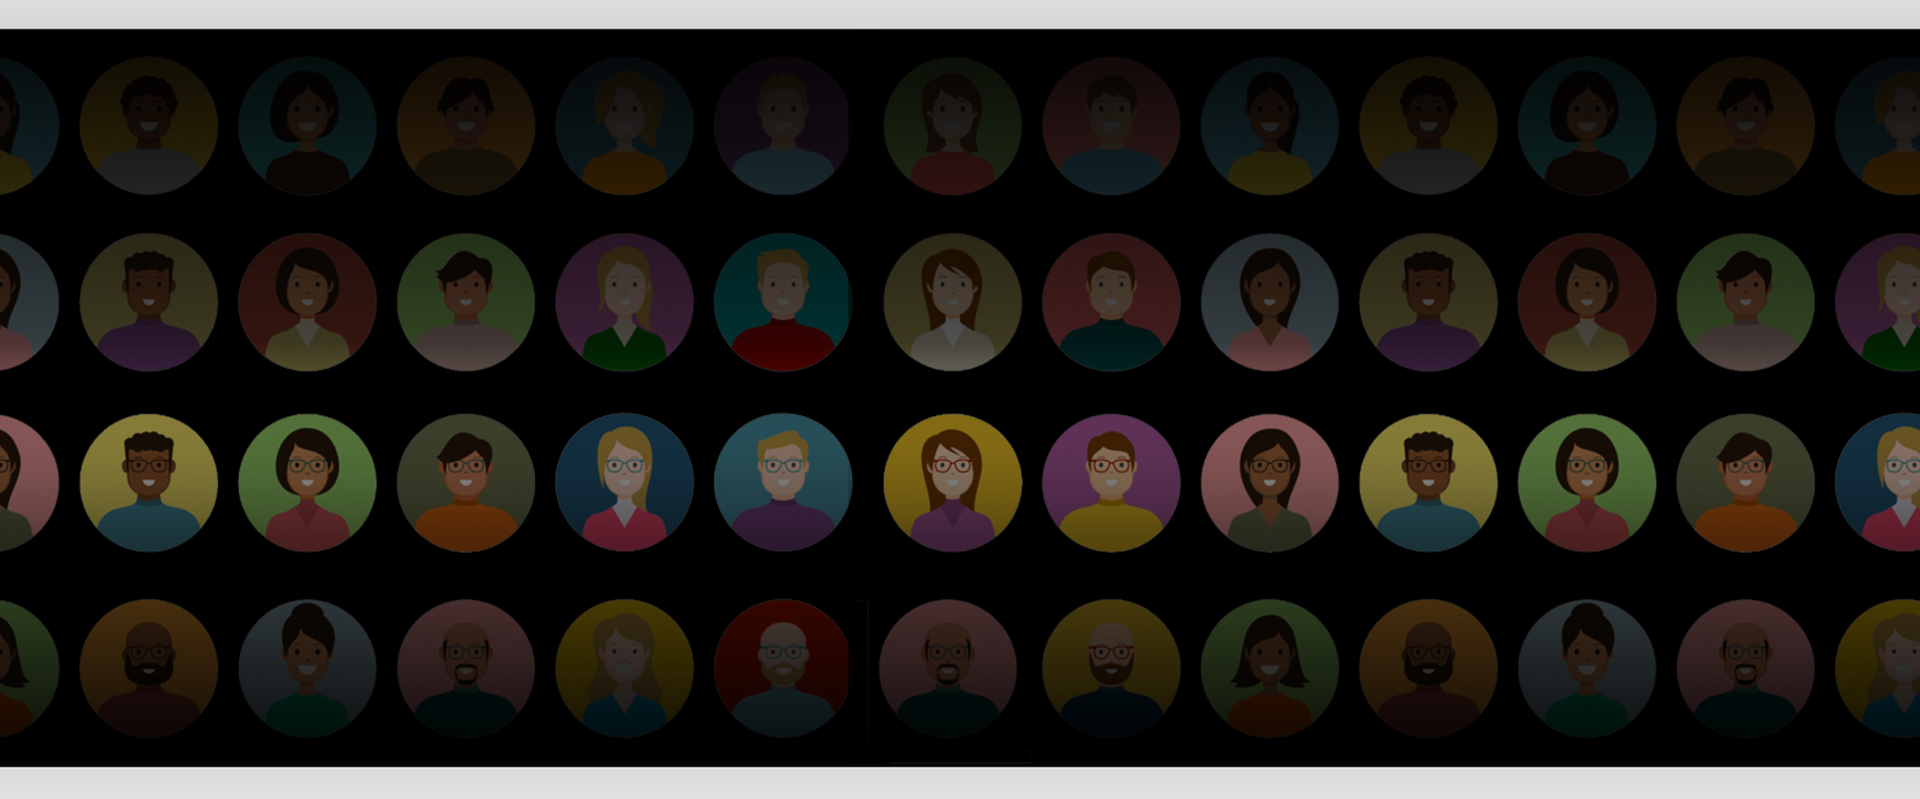
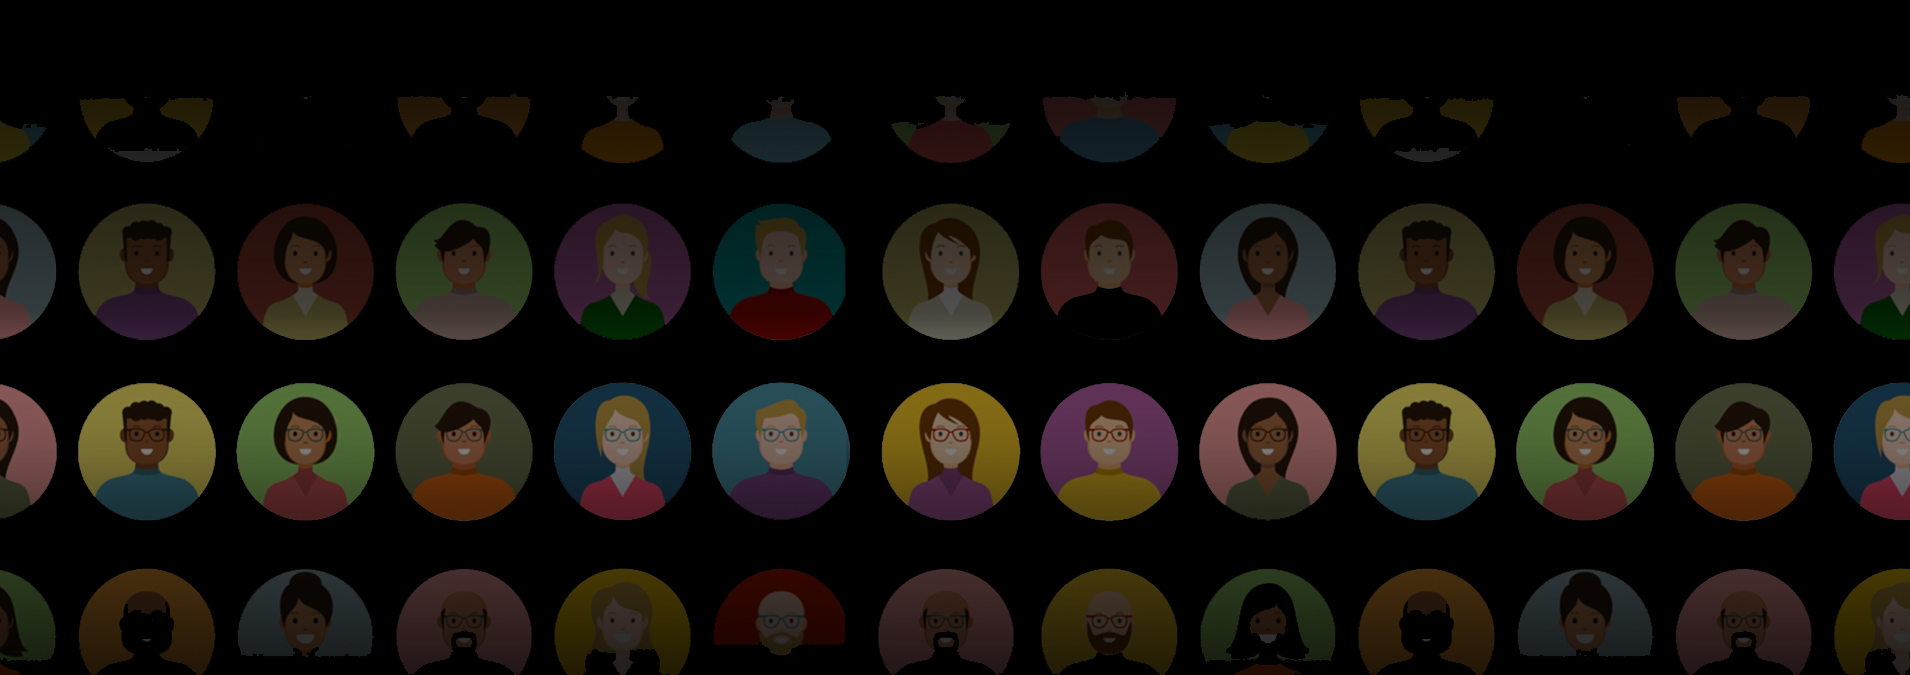
feat(Home): made Home page

diff --git a/src/pages/index.html b/src/pages/index.html
@@ -44,9 +44,9 @@
 					<button class="hero__button button_active">Get Started Now</button>
 					<button class="hero__button button_inactive">View A Demo</button>
 				</div>
-				<p class="hero__supbutton_text">
+				<p class="common__supbutton_text">
 					<span class="green-circle_wrap">
-						<span class="green-circle"></span></span><span class="hero__supbutton_bold">1000+</span>
+						<span class="green-circle"></span></span><span class="common__supbutton_bold">1000+</span>
 						creators have already started
 				</p>
 			</div>
@@ -139,7 +139,41 @@
 				<div class="block-and-image__image block-and-image-2__image"></div>
 			</div>	</div>
 		</section>
+		<section class="expert-opinion">
+			<h2 class="common_title">Experts Agree</h2>
+			<div class="expert-option__image"></div>
+		</section>
+		<section class="achievements">
+			<h2 class="common_title achievements__title">We've helped over 1,000 creatorsre claim control of their audience.</h2>
+		</section>
 	</main>
-	<footer></footer>
+	<footer>
+		<div class="container footer__container">
+			<img src="../icons/logo.svg" alt="logo" class="footer__logo">
+			<h2 class="common_title footer__title">Get Started Now</h2>
+			<p class="footer__subtitle">Setup is easy and takes under 5 minutes.</p>
+			<button class="button_active footer__button">Get Started Now</button>
+			<p class="common__supbutton_text">
+				<span class="green-circle_wrap">
+					<span class="green-circle"></span></span><span class="common__supbutton_bold">1000+</span>
+					creators have already started
+			</p>
+			<div class="footer__wrapper">	
+				<div class="footer__logo-wrapper"><p class="footer__name"><img src="../icons/logo.svg" alt="logo" class="footer__logo_small">Marico</p><a href="#" class="footer__link">info@marico.com</a></div>
+				<nav class="header__nav">
+					<ul class="header_list">
+						<li class="header__link-box"><a href="#" class="header__link">Use Cases
+							<div class="arrow">
+							<span class="arrow-left hover__stule"></span>
+							<span class="arrow-right hover__stule"></span>
+						</div></a></li>
+						<li class="header__link-box"><a href="#" class="header__link">About</a></li>
+						<li class="header__link-box"><a href="#" class="header__link">Pricing</a></li>
+						<li class="header__link-box"><a href="#" class="header__link">Blog</a></li>
+					</ul>
+				</nav>
+			</div>
+		</div>	
+	</footer>
 </body>
 </html>

diff --git a/src/styles/global.css b/src/styles/global.css
@@ -223,7 +223,7 @@
 	display: flex;
 	justify-content: center;
 	align-items: center;
-	border-radius: 8px;
+	border-radius: 18px;
 	font-weight: 500;
 	font-size: 20px;
 	color: var(--color-white);
@@ -242,7 +242,7 @@
 	border: 1px solid var(--color-gray_text);
 	font-weight: 500;
 	font-size: 20px;
-	border-radius: 8px;
+	border-radius: 18px;
 	color: var(--color-gray_text);
 	background: var(--color-black);
 	transition: .2s;
@@ -280,6 +280,41 @@
 	line-height: 38px;
 	color: var(--color-blue_step);
 }
+
+.common__supbutton_text {
+	display: flex;
+	align-items: center;
+	margin-top: 21px;
+	font-weight: 400;
+	font-size: 25px;
+	text-align: center;
+	color: var(--color-gray_text);
+}
+
+.green-circle_wrap {
+	display: flex;
+	justify-content: center;
+	align-items: center;
+	margin-right: 10px;
+	width: 29px;
+	height: 29px;
+	border-radius: 50%;
+	background: var(--color-dark-green_circles);
+}
+
+.common__supbutton_bold{
+	margin-right: 9px;
+	font-weight: 700;
+	color: var(--color-white);
+}
+
+.green-circle {
+	width: 17px;
+	height: 17px;
+	border-radius: 50%;
+	background: var(--color-green_circles);
+}
+
 
 body{
 	font-family: 'Poppins';
@@ -400,4 +435,78 @@ header{
 .header__sing-up {
 	width: 119px;
 	height: 55px;
+}
+
+/* footer */
+footer {
+
+	padding-top: 188px;
+	min-height: 1161px;
+}
+
+.footer__container {
+	display: flex;
+	flex-direction: column;
+	align-items: center;
+	padding: 0 140px;
+}
+
+.footer__logo {
+	width: 164px;
+	height: 151px;
+}
+
+.footer__title{
+	margin-top: 20px;
+}
+
+.footer__subtitle {
+	font-weight: 400;
+	font-size: 43px;
+	line-height: 64px;
+	color: var(--color-white);
+
+}
+
+.footer__button {
+	margin-top: 15px;
+	width: 472px;
+	height: 102px;
+}
+
+.footer__wrapper{
+	display: flex;
+	justify-content: space-between;
+	margin-top: 184px;
+	width: 100%;
+}
+
+.footer__logo-wrapper {
+	display: flex;
+	flex-direction: column;
+	align-items: flex-start;
+}
+
+.footer__name {
+	font-weight: 800;
+	font-size: 42px;
+	line-height: 63px;
+	color: var(--color-white);
+}
+
+.footer__logo_small {
+	width: 47.18px;
+	height: 51.86px;
+	margin-right: 24px;
+}
+
+.footer__link {
+	font-weight: 400;
+	font-size: 27px;
+	color: var(--color-gray_text);
+	transition: .2s;
+}
+
+.footer__link:hover{
+	color: var(--color-active);
 }

diff --git a/src/styles/main.css b/src/styles/main.css
@@ -167,39 +167,6 @@ h1 span{
 	height: 77px;
 }
 
-.hero__supbutton_text {
-	display: flex;
-	align-items: center;
-	margin-top: 21px;
-	font-weight: 400;
-	font-size: 25px;
-	text-align: center;
-	color: var(--color-gray_text);
-}
-
-.green-circle_wrap {
-	display: flex;
-	justify-content: center;
-	align-items: center;
-	margin-right: 10px;
-	width: 29px;
-	height: 29px;
-	border-radius: 50%;
-	background: var(--color-dark-green_circles);
-}
-
-.hero__supbutton_bold{
-	margin-right: 9px;
-	font-weight: 700;
-	color: var(--color-white);
-}
-
-.green-circle {
-	width: 17px;
-	height: 17px;
-	border-radius: 50%;
-	background: var(--color-green_circles);
-}
 
 /* love-marico */
 .love-marico {
@@ -328,8 +295,43 @@ h1 span{
 .block-and-image-2__image{
 	background: url(../images/blackpink.webp) center center / auto no-repeat;
 }
+
 .block-and-image__title_2{
 	margin-top: 80px;
 	max-width: 800px;
 	text-align: start;
+}
+
+/* expert-opinion  */
+.expert-opinion {
+	padding-top: 99px;
+	width: 100%;
+}
+
+.expert-option__image {
+	display: block;
+	margin: 52px auto 0 auto;
+	width: 95vw;
+	height: 24vw;
+	background: url(../images/comment.webp) center center / 100% 100% no-repeat;
+
+}
+
+/* achievements */
+.achievements {
+	display: flex;
+	align-items: center;
+	margin-top: 188px;
+	width: 100%;
+	height: 35vw;
+	background: url(../images/avatars.webp)center center / 100% 100% no-repeat;
+}
+.achievements__title {
+	display: block;
+	margin: 0 auto;
+	max-width: 1236px;
+	font-size: 70px;
+}
+
+.achievements__title {
 }
